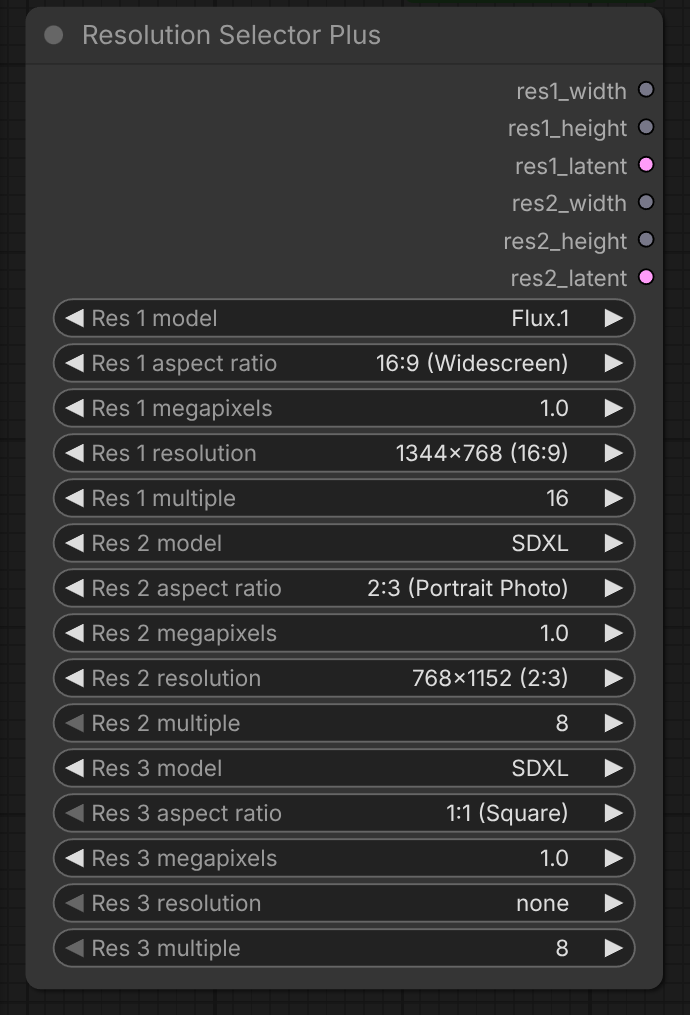
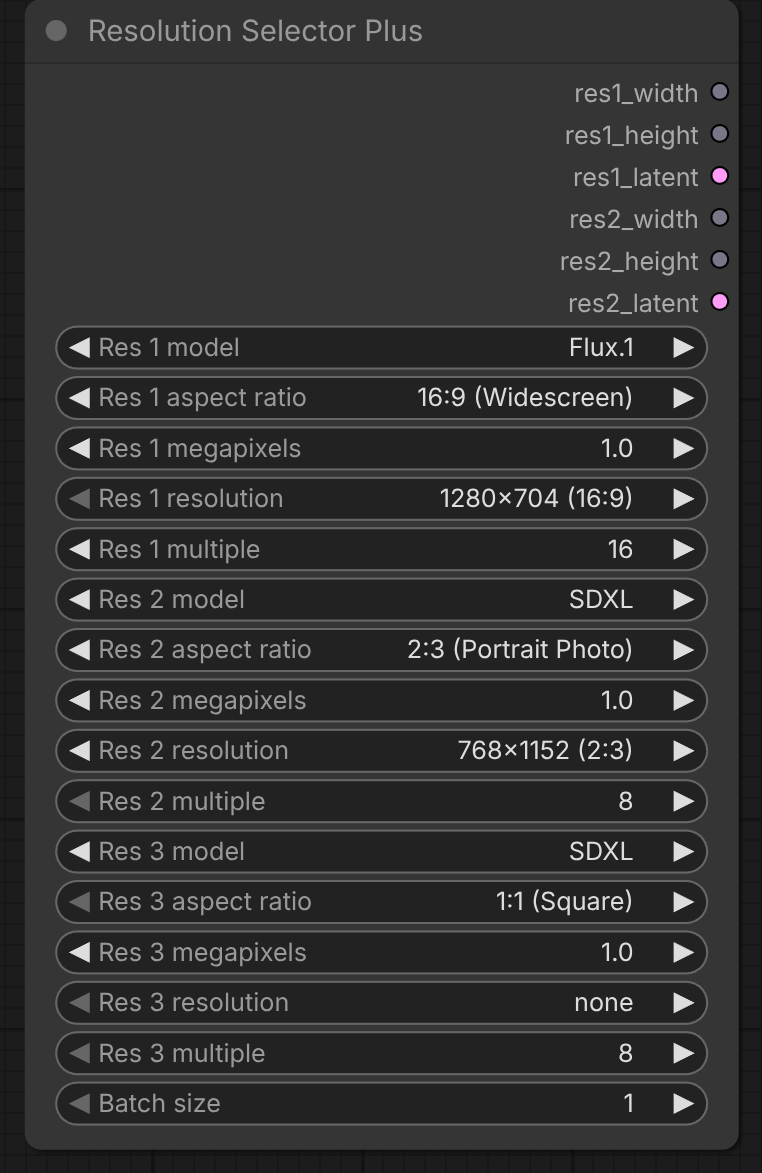
feat: shared batch_size for Resolution Selector Plus latents; update README and screenshots; bump 2.4.0

Changed region(s): [[0.0304, 0.0, 0.9739, 0.9773], [0.0609, 0.0, 0.5478, 0.0611]]

diff --git a/js/resolution_selector_v2_core.js b/js/resolution_selector_v2_core.js
@@ -176,6 +176,8 @@ export function install(node) {
     node.onConfigure = function (...args) {
         const result = previousConfigure?.apply(this, args);
         this._resolutionSelectorV2DeferMissingSetNodes = true;
+        const batch = widget('batch_size');
+        if (batch && batch.value == null) batch.value = 1;
         for (let slot = 1; slot <= 4; slot++) {
             const ratio = widget(`res${slot}_aspect_ratio`);
             const index = BARE_RATIOS.indexOf(ratio?.value);

diff --git a/nodes.py b/nodes.py
@@ -579,12 +579,14 @@ class ResolutionSelectorV2(ResolutionSelector):
     DESCRIPTION = "Resolution Selector Plus: choose a discovered image model, named aspect ratio, megapixels and rounding multiple for up to four latent outputs."
     @classmethod
     def VALIDATE_INPUTS(cls, res1_aspect_ratio=None, res2_aspect_ratio=None,
-                        res3_aspect_ratio=None, res4_aspect_ratio=None):
+                        res3_aspect_ratio=None, res4_aspect_ratio=None, batch_size=1):
         # ComfyUI skips the combo check for inputs named here, so v2.2.0 API
         # prompts with bare ratios ("16:9") validate. Other inputs keep the check.
         for ratio in (res1_aspect_ratio, res2_aspect_ratio, res3_aspect_ratio, res4_aspect_ratio):
             if ratio is not None and ratio not in V2_RATIOS and ratio not in V2_RATIO_BY_BARE:
                 return f"Unsupported aspect ratio: {ratio!r}"
+        if type(batch_size) is not int or not 1 <= batch_size <= 64:
+            return "Batch size must be an integer from 1 to 64"
         return True
 
     @classmethod
@@ -609,6 +611,9 @@ class ResolutionSelectorV2(ResolutionSelector):
                                                 "tooltip": "Select a resolution; later slots use none until activated."})
             target[f"res{slot}_multiple"] = (list(V2_MULTIPLES), {"default": V2_MODELS["SDXL"][2],
                                               "tooltip": "Pixel rounding step. Model selection suggests its best multiple; you may override it."})
+        optional["batch_size"] = ("INT", {"default": 1, "min": 1, "max": 64,
+                                          "display_name": "Batch size",
+                                          "tooltip": "Number of latent samples in every slot batch."})
         return {"required": required, "optional": optional}
 
     RETURN_TYPES = ("INT", "INT", "LATENT") * 4
@@ -622,7 +627,10 @@ class ResolutionSelectorV2(ResolutionSelector):
     def select_resolutions(self, res1_model, res1_aspect_ratio, res1_megapixels, res1_resolution, res1_multiple,
                            res2_model=None, res2_aspect_ratio="1:1", res2_megapixels="1.0", res2_resolution="none", res2_multiple=8,
                            res3_model=None, res3_aspect_ratio="1:1", res3_megapixels="1.0", res3_resolution="none", res3_multiple=8,
-                           res4_model=None, res4_aspect_ratio="1:1", res4_megapixels="1.0", res4_resolution="none", res4_multiple=8):
+                           res4_model=None, res4_aspect_ratio="1:1", res4_megapixels="1.0", res4_resolution="none", res4_multiple=8,
+                           batch_size=1):
+        if type(batch_size) is not int or not 1 <= batch_size <= 64:
+            raise ValueError("Batch size must be an integer from 1 to 64")
         slots = ((res1_model, res1_aspect_ratio, res1_megapixels, res1_resolution, res1_multiple),
                  (res2_model, res2_aspect_ratio, res2_megapixels, res2_resolution, res2_multiple),
                  (res3_model, res3_aspect_ratio, res3_megapixels, res3_resolution, res3_multiple),
@@ -647,7 +655,7 @@ class ResolutionSelectorV2(ResolutionSelector):
             width, height = parse_resolution_string(label)
             width = max(multiple, ((width + multiple // 2) // multiple) * multiple)
             height = max(multiple, ((height + multiple // 2) // multiple) * multiple)
-            shape = [1, channels, height // downscale, width // downscale]
+            shape = [batch_size, channels, height // downscale, width // downscale]
             if rank == 5:
                 shape.insert(2, 1)
             kwargs = {"device": self.device}
@@ -727,11 +735,17 @@ try:
             inputs = []
             for group in ("required", "optional"):
                 for name, (choices, settings) in source[group].items():
-                    inputs.append(io.Combo.Input(name, options=choices, default=settings["default"],
-                                                 display_name=name.replace("_", " ").replace("res", "Res ", 1),
-                                                 tooltip=settings.get("tooltip"),
-                                                 optional=group == "optional",
-                                                 extra_dict={"model_info": settings["model_info"]} if "model_info" in settings else None))
+                    if choices == "INT":
+                        inputs.append(io.Int.Input(name, default=settings["default"],
+                                                   min=settings["min"], max=settings["max"],
+                                                   display_name=settings["display_name"],
+                                                   tooltip=settings["tooltip"], optional=True))
+                    else:
+                        inputs.append(io.Combo.Input(name, options=choices, default=settings["default"],
+                                                     display_name=name.replace("_", " ").replace("res", "Res ", 1),
+                                                     tooltip=settings.get("tooltip"),
+                                                     optional=group == "optional",
+                                                     extra_dict={"model_info": settings["model_info"]} if "model_info" in settings else None))
             outputs = []
             for name, kind, tooltip in zip(ResolutionSelectorV2.RETURN_NAMES,
                                            ResolutionSelectorV2.RETURN_TYPES,
@@ -744,9 +758,9 @@ try:
 
         @classmethod
         def validate_inputs(cls, res1_aspect_ratio=None, res2_aspect_ratio=None,
-                            res3_aspect_ratio=None, res4_aspect_ratio=None):
+                            res3_aspect_ratio=None, res4_aspect_ratio=None, batch_size=1):
             return ResolutionSelectorV2.VALIDATE_INPUTS(
-                res1_aspect_ratio, res2_aspect_ratio, res3_aspect_ratio, res4_aspect_ratio)
+                res1_aspect_ratio, res2_aspect_ratio, res3_aspect_ratio, res4_aspect_ratio, batch_size)
 
         @classmethod
         def execute(cls, res1_model, res1_aspect_ratio, res1_megapixels, res1_resolution, res1_multiple,

diff --git a/test_resolution_selector_v2.py b/test_resolution_selector_v2.py
@@ -60,6 +60,10 @@ class TestResolutionSelectorV2(unittest.TestCase):
             start = 0 if slot == 1 else (slot - 2) * 5
             self.assertEqual(list(group)[start:start + 5],
                              [f"res{slot}_{name}" for name in ("model", "aspect_ratio", "megapixels", "resolution", "multiple")])
+        self.assertEqual(list(inputs['optional'])[-1], 'batch_size')
+        self.assertEqual(inputs['optional']['batch_size'], ('INT', {
+            'default': 1, 'min': 1, 'max': 64, 'display_name': 'Batch size',
+            'tooltip': 'Number of latent samples in every slot batch.'}))
         self.assertEqual(len(ResolutionSelectorV2.RETURN_TYPES), 12)
         self.assertEqual(inputs["required"]["res1_megapixels"][1]["default"], "1.0")
         for ratio in inputs["required"]["res1_aspect_ratio"][0]:
@@ -120,6 +124,27 @@ class TestResolutionSelectorV2(unittest.TestCase):
                     expected = expected[:2] + (1,) + expected[2:]
                 self.assertEqual(latent['samples'], expected)
                 self.assertEqual(latent['downscale_ratio_spacial'], downscale)
+
+    def test_shared_batch_size_for_4d_and_5d_slots(self):
+        test_resolution_selector.MockTorch.zeros = staticmethod(lambda shape, **kwargs: tuple(shape))
+        label = get_v2_resolutions('1:1', '1.0')[0]
+        for model in ('SDXL', 'Qwen-Image'):
+            with self.subTest(model=model):
+                result = ResolutionSelectorV2().select_resolutions(
+                    model, '1:1', '1.0', label, 8,
+                    res2_model=model, res3_model=model, res4_model=model,
+                    res2_resolution=label, res3_resolution=label, res4_resolution=label,
+                    batch_size=3)
+                for slot in range(4):
+                    self.assertEqual(result[slot * 3 + 2]['samples'][0], 3)
+                self.assertEqual(len(result[2]['samples']), 5 if model == 'Qwen-Image' else 4)
+                self.assertEqual(result[0:2], result[3:5])
+                self.assertEqual(ResolutionSelectorV2().select_resolutions(
+                    model, '1:1', '1.0', label, 8)[2]['samples'][0], 1)
+        for size in (0, 65):
+            with self.assertRaises(ValueError):
+                ResolutionSelectorV2().select_resolutions('SDXL', '1:1', '1.0', label, 8,
+                                                         batch_size=size)
 
     def test_slots_use_independent_models_and_multiples(self):
         test_resolution_selector.MockTorch.zeros = staticmethod(lambda shape, **kwargs: tuple(shape))
@@ -236,13 +261,15 @@ class TestResolutionSelectorV2(unittest.TestCase):
         spec = inspect.getfullargspec(ResolutionSelectorV2.VALIDATE_INPUTS)
         self.assertIsNone(spec.varkw)  # **kwargs would skip the combo check for every input
         self.assertEqual([n for n in spec.args if n != 'cls'],
-                         [f'res{slot}_aspect_ratio' for slot in range(1, 5)])
+                         [f'res{slot}_aspect_ratio' for slot in range(1, 5)] + ['batch_size'])
         validate = ResolutionSelectorV2.VALIDATE_INPUTS
         self.assertIs(validate(res1_aspect_ratio='16:9'), True)
         self.assertIs(validate(res1_aspect_ratio='16:9 (Widescreen)', res3_aspect_ratio='1:3'), True)
         self.assertIs(validate(), True)
         self.assertIsInstance(validate(res2_aspect_ratio='7:5'), str)
         self.assertIsInstance(validate(res1_aspect_ratio='16:9 (Wrong)'), str)
+        self.assertIs(validate(batch_size=64), True)
+        self.assertIsInstance(validate(batch_size=0), str)
 
     def test_legacy_lists_only_presets_valid_for_discovered_models(self):
         from nodes import ResolutionSelector, V2_MODELS, LEGACY_EQUIVALENTS, get_resolution_list, get_all_resolutions
@@ -289,6 +316,9 @@ class TestResolutionSelectorV2(unittest.TestCase):
         self.assertEqual([item.name for item in schema.inputs],
                          list(module.ResolutionSelectorV2.INPUT_TYPES()['required']) +
                          list(module.ResolutionSelectorV2.INPUT_TYPES()['optional']))
+        self.assertEqual(schema.inputs[-1].name, 'batch_size')
+        self.assertEqual(schema.inputs[-1].display_name, 'Batch size')
+        self.assertEqual(schema.inputs[-1].default, 1)
         self.assertEqual([item.display_name for item in schema.inputs[:5]],
                          ['Res 1 model', 'Res 1 aspect ratio', 'Res 1 megapixels', 'Res 1 resolution', 'Res 1 multiple'])
         old = module.ResolutionSelectorPlusV3.define_schema()
@@ -304,6 +334,12 @@ class TestResolutionSelectorV2(unittest.TestCase):
         self.assertEqual(module.ResolutionSelector.RETURN_TYPES, ('INT', 'INT', 'LATENT') * 2)
         self.assertIs(module.NODE_CLASS_MAPPINGS['ResolutionSelectorPlus'], module.ResolutionSelector)
         self.assertIs(module.NODE_CLASS_MAPPINGS['ResolutionSelectorPlusV2'], module.ResolutionSelectorV2)
+        label = module.get_v2_resolutions('1:1', '1.0')[0]
+        self.assertEqual(module.ResolutionSelectorPlusV2V3.execute(
+            'SDXL', '1:1', '1.0', label, 8, batch_size=3)[2]['samples'][0], 3)
+        self.assertEqual(module.ResolutionSelectorPlusV2V3.execute(
+            'SDXL', '1:1', '1.0', label, 8)[2]['samples'][0], 1)
+        self.assertIsInstance(module.ResolutionSelectorPlusV2V3.validate_inputs(batch_size=0), str)
 
 
 

diff --git a/README.md b/README.md
@@ -8,6 +8,7 @@ Custom node for [ComfyUI](https://github.com/comfyanonymous/ComfyUI) providing e
 
 - **Resolution Selector Plus:** pick a named aspect ratio and megapixels, then choose from matching resolutions.
 - **Up to four resolution slots:** each active slot has width, height, and empty latent outputs.
+- **Shared batch size:** one `batch_size` input (1 to 64, default 1) sets the batch of every slot's latent.
 - **Per-slot model and rounding multiple:** choose a discovered ComfyUI image model and pixel multiple independently for each slot.
 - **Optional KJNodes Set nodes:** when [ComfyUI-KJNodes](https://github.com/kijai/ComfyUI-KJNodes) is installed, the node can create and sync a Set node for each output, so Get nodes can reach `res1_width`, `res1_latent` and the rest anywhere in the workflow.
 - **Resolution Selector Plus (Legacy):** existing model presets and custom dimensions remain available for saved workflows.
@@ -52,6 +53,7 @@ Resolution labels are compact, for example `1280x704 (16:9)`, with no orientatio
 | `res1_megapixels` through `res4_megapixels` | 0.25, 0.5, 1.0, 1.5, 2.0, 4.0; default 1.0 | Filters each slot's resolution list. |
 | `res1_resolution` through `res4_resolution` | Up to three base candidates near 90%, 100%, and 110% of target area. Each target snaps to 64 pixels; if its result has a different labeled ratio, it retries at 32, 16, then 8 pixels. Duplicate candidates appear once. Slot 1 defaults to the first 1:1, 1.0 MP candidate; later slots default to `none`. | Selects a base resolution. |
 | `res1_multiple` through `res4_multiple` | 8, 16, 32, 64; default 8 | Rounds that slot's width and height to the nearest multiple, with half values rounded up and a minimum of one multiple. |
+| `batch_size` | Integer 1 to 64; default 1 | Sets the batch dimension of every active slot's latent. Width and height outputs stay the same. |
 
 The dropdown reads `comfy.supported_models.models` at startup. A bundled ComfyUI v0.44.0 snapshot supplies choices when ComfyUI cannot be imported. Changing a slot's `resN_model` sets its `resN_multiple` to the best multiple below. You can change it afterward; saved overrides remain on reload. If it is smaller than that model's latent downscale, latent dimensions use integer division and the node logs a note.
 
@@ -118,6 +120,8 @@ Outputs are named `res1_width`, `res1_height`, `res1_latent`, through `res4_late
 
 ### Auto Set nodes (KJNodes)
 
+![Resolution Selector Plus with Auto Set nodes and two Get nodes](set_nodes_preview.png)
+
 Requires [ComfyUI-KJNodes](https://github.com/kijai/ComfyUI-KJNodes). Without it, the menu items below do not appear and the node behaves as before. The setting is off by default.
 
 How Set and Get nodes work: KJNodes Set and Get nodes exist only in the ComfyUI frontend and are not sent to the server. A Set node takes a value and gives it a name. A Get node with the same name outputs that value. When you queue a prompt, each Get node is replaced by a direct link to whatever feeds the matching Set node. Width, height, and latent values therefore reach their targets exactly as if you had drawn the links yourself, with no extra execution step. Set and Get nodes avoid long links across a large workflow.
@@ -139,7 +143,7 @@ Behavior:
 
 ```text
 Resolution Selector Plus (res1_model: SD3, res1_aspect_ratio: "16:9 (Widescreen)", res1_megapixels: 1.0,
-  res1_resolution: "1344x768 (16:9)")
+  res1_resolution: "1344x768 (16:9)", batch_size: 4)
   -> res1_latent -> KSampler
 
 Resolution Selector Plus (res1_model: SDXL, res1_aspect_ratio: "1:1 (Square)", res1_megapixels: 1.0,
